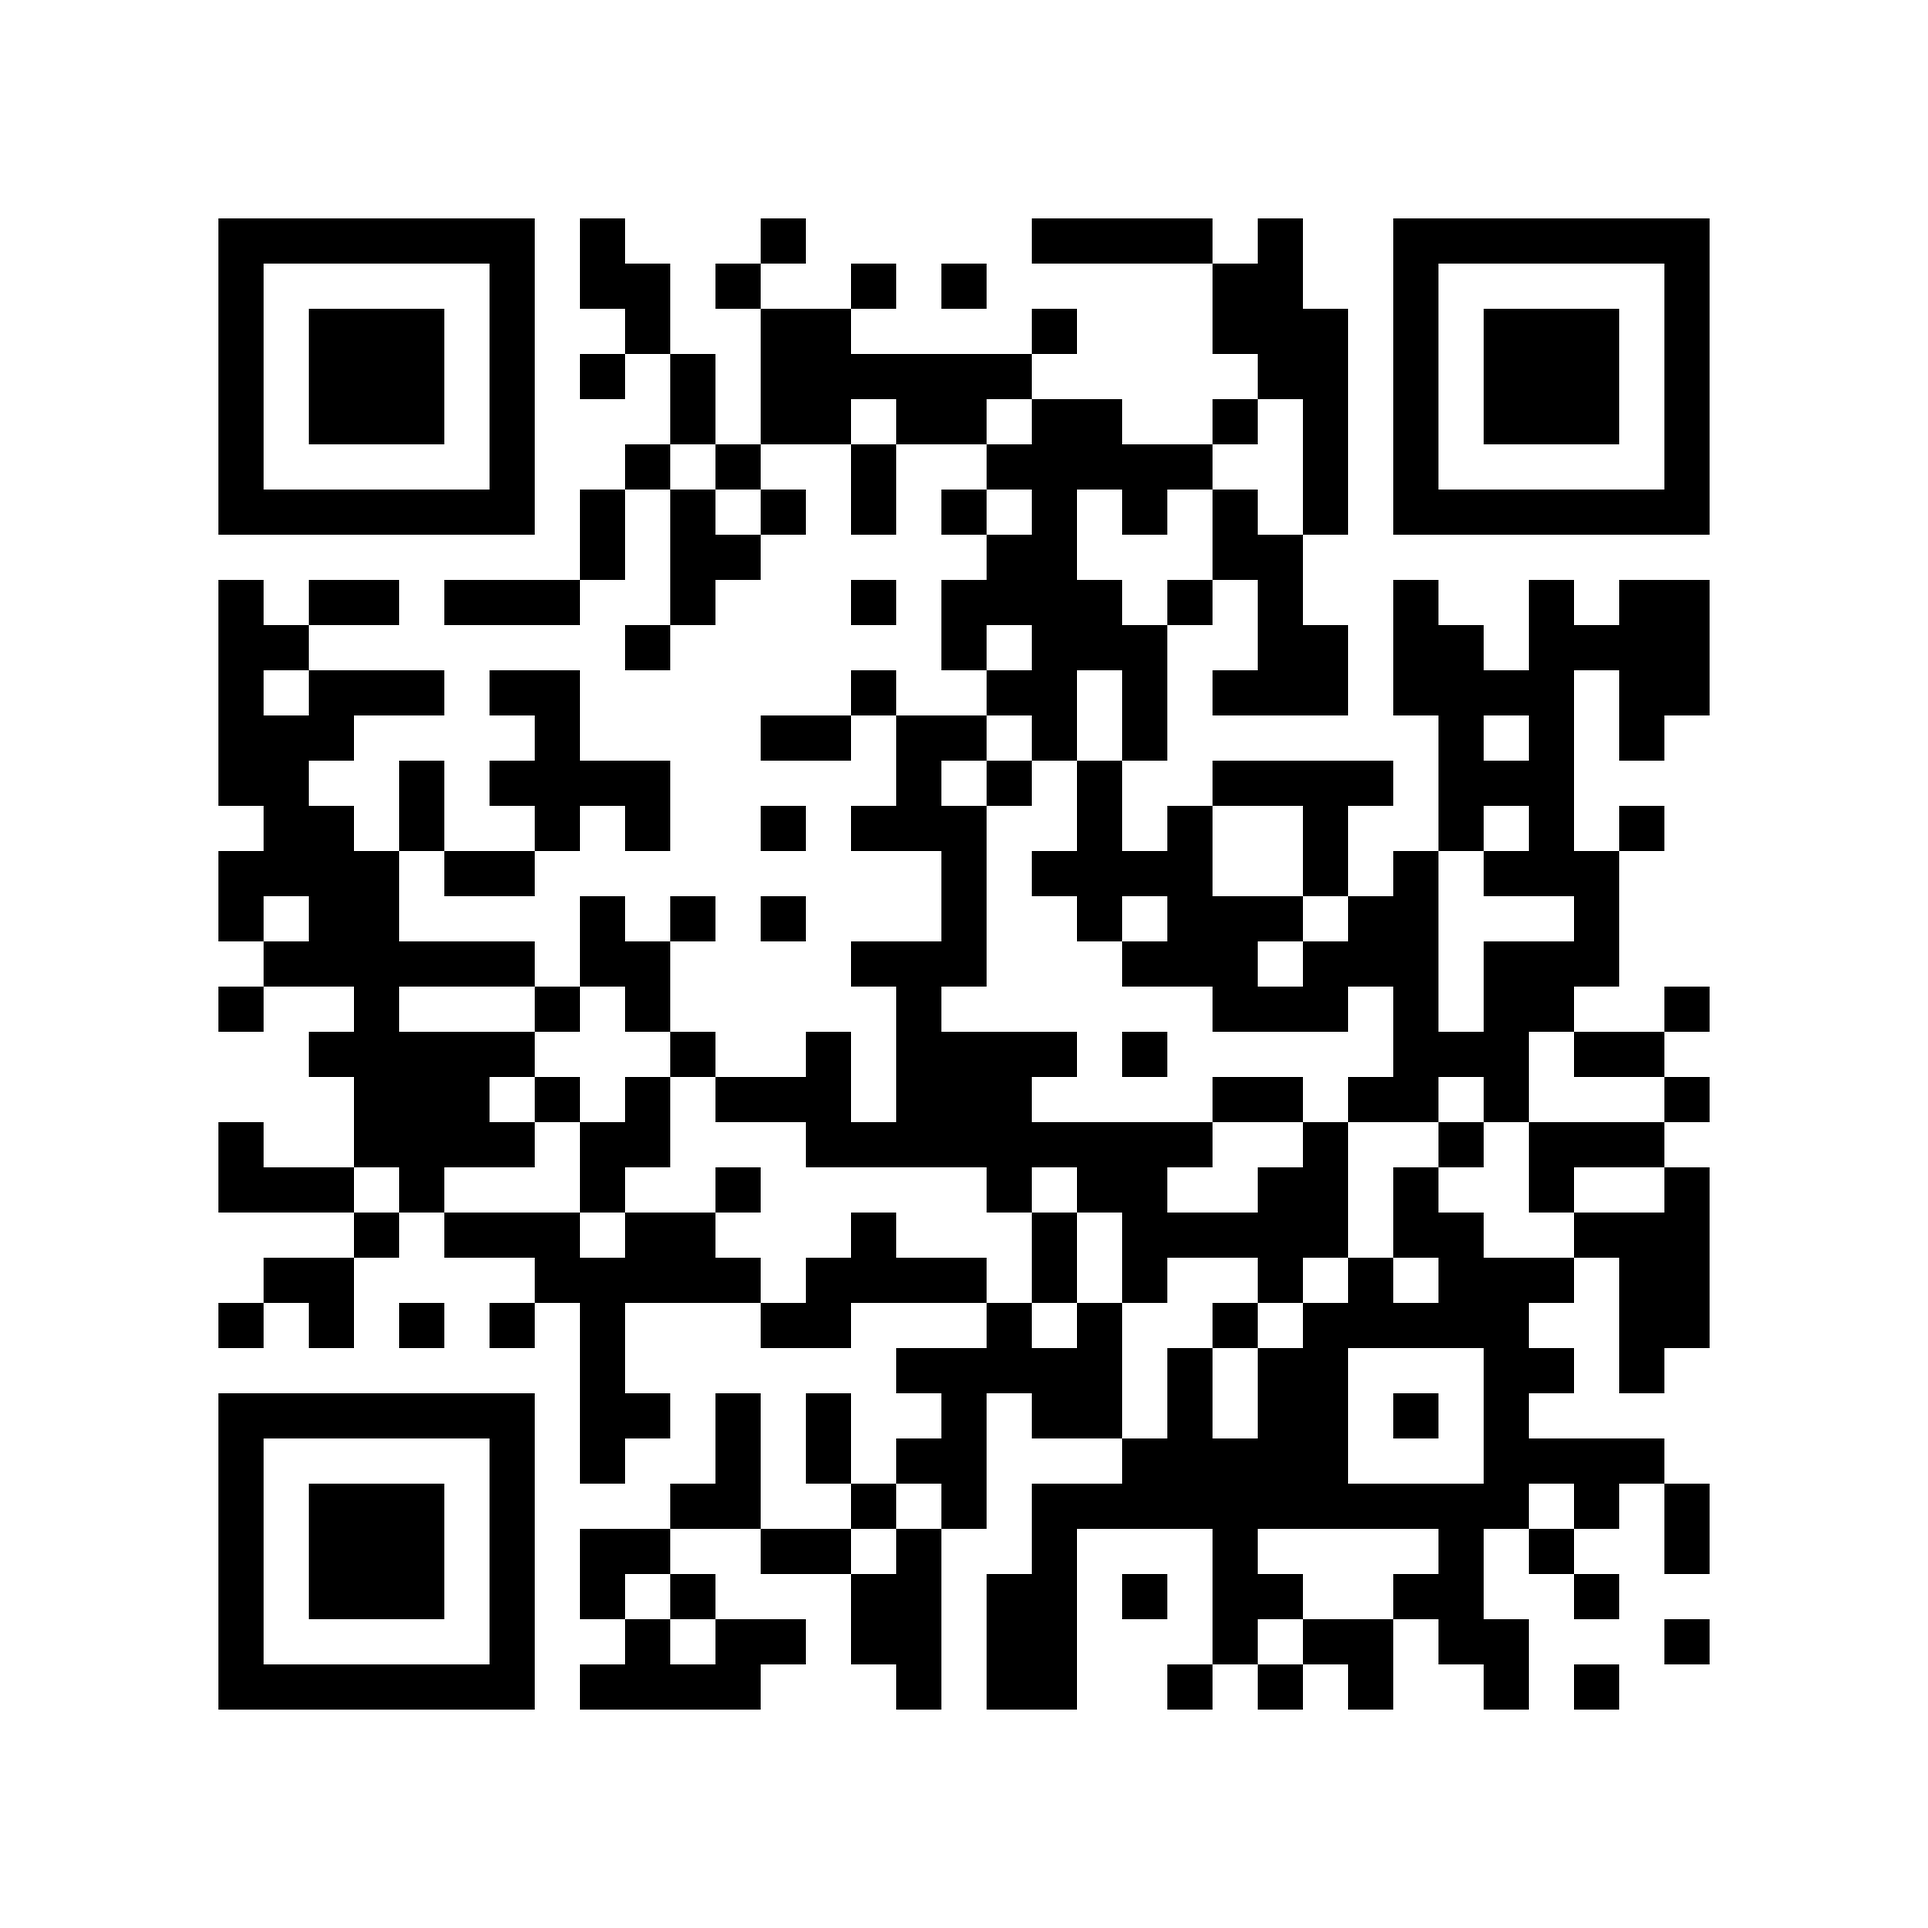
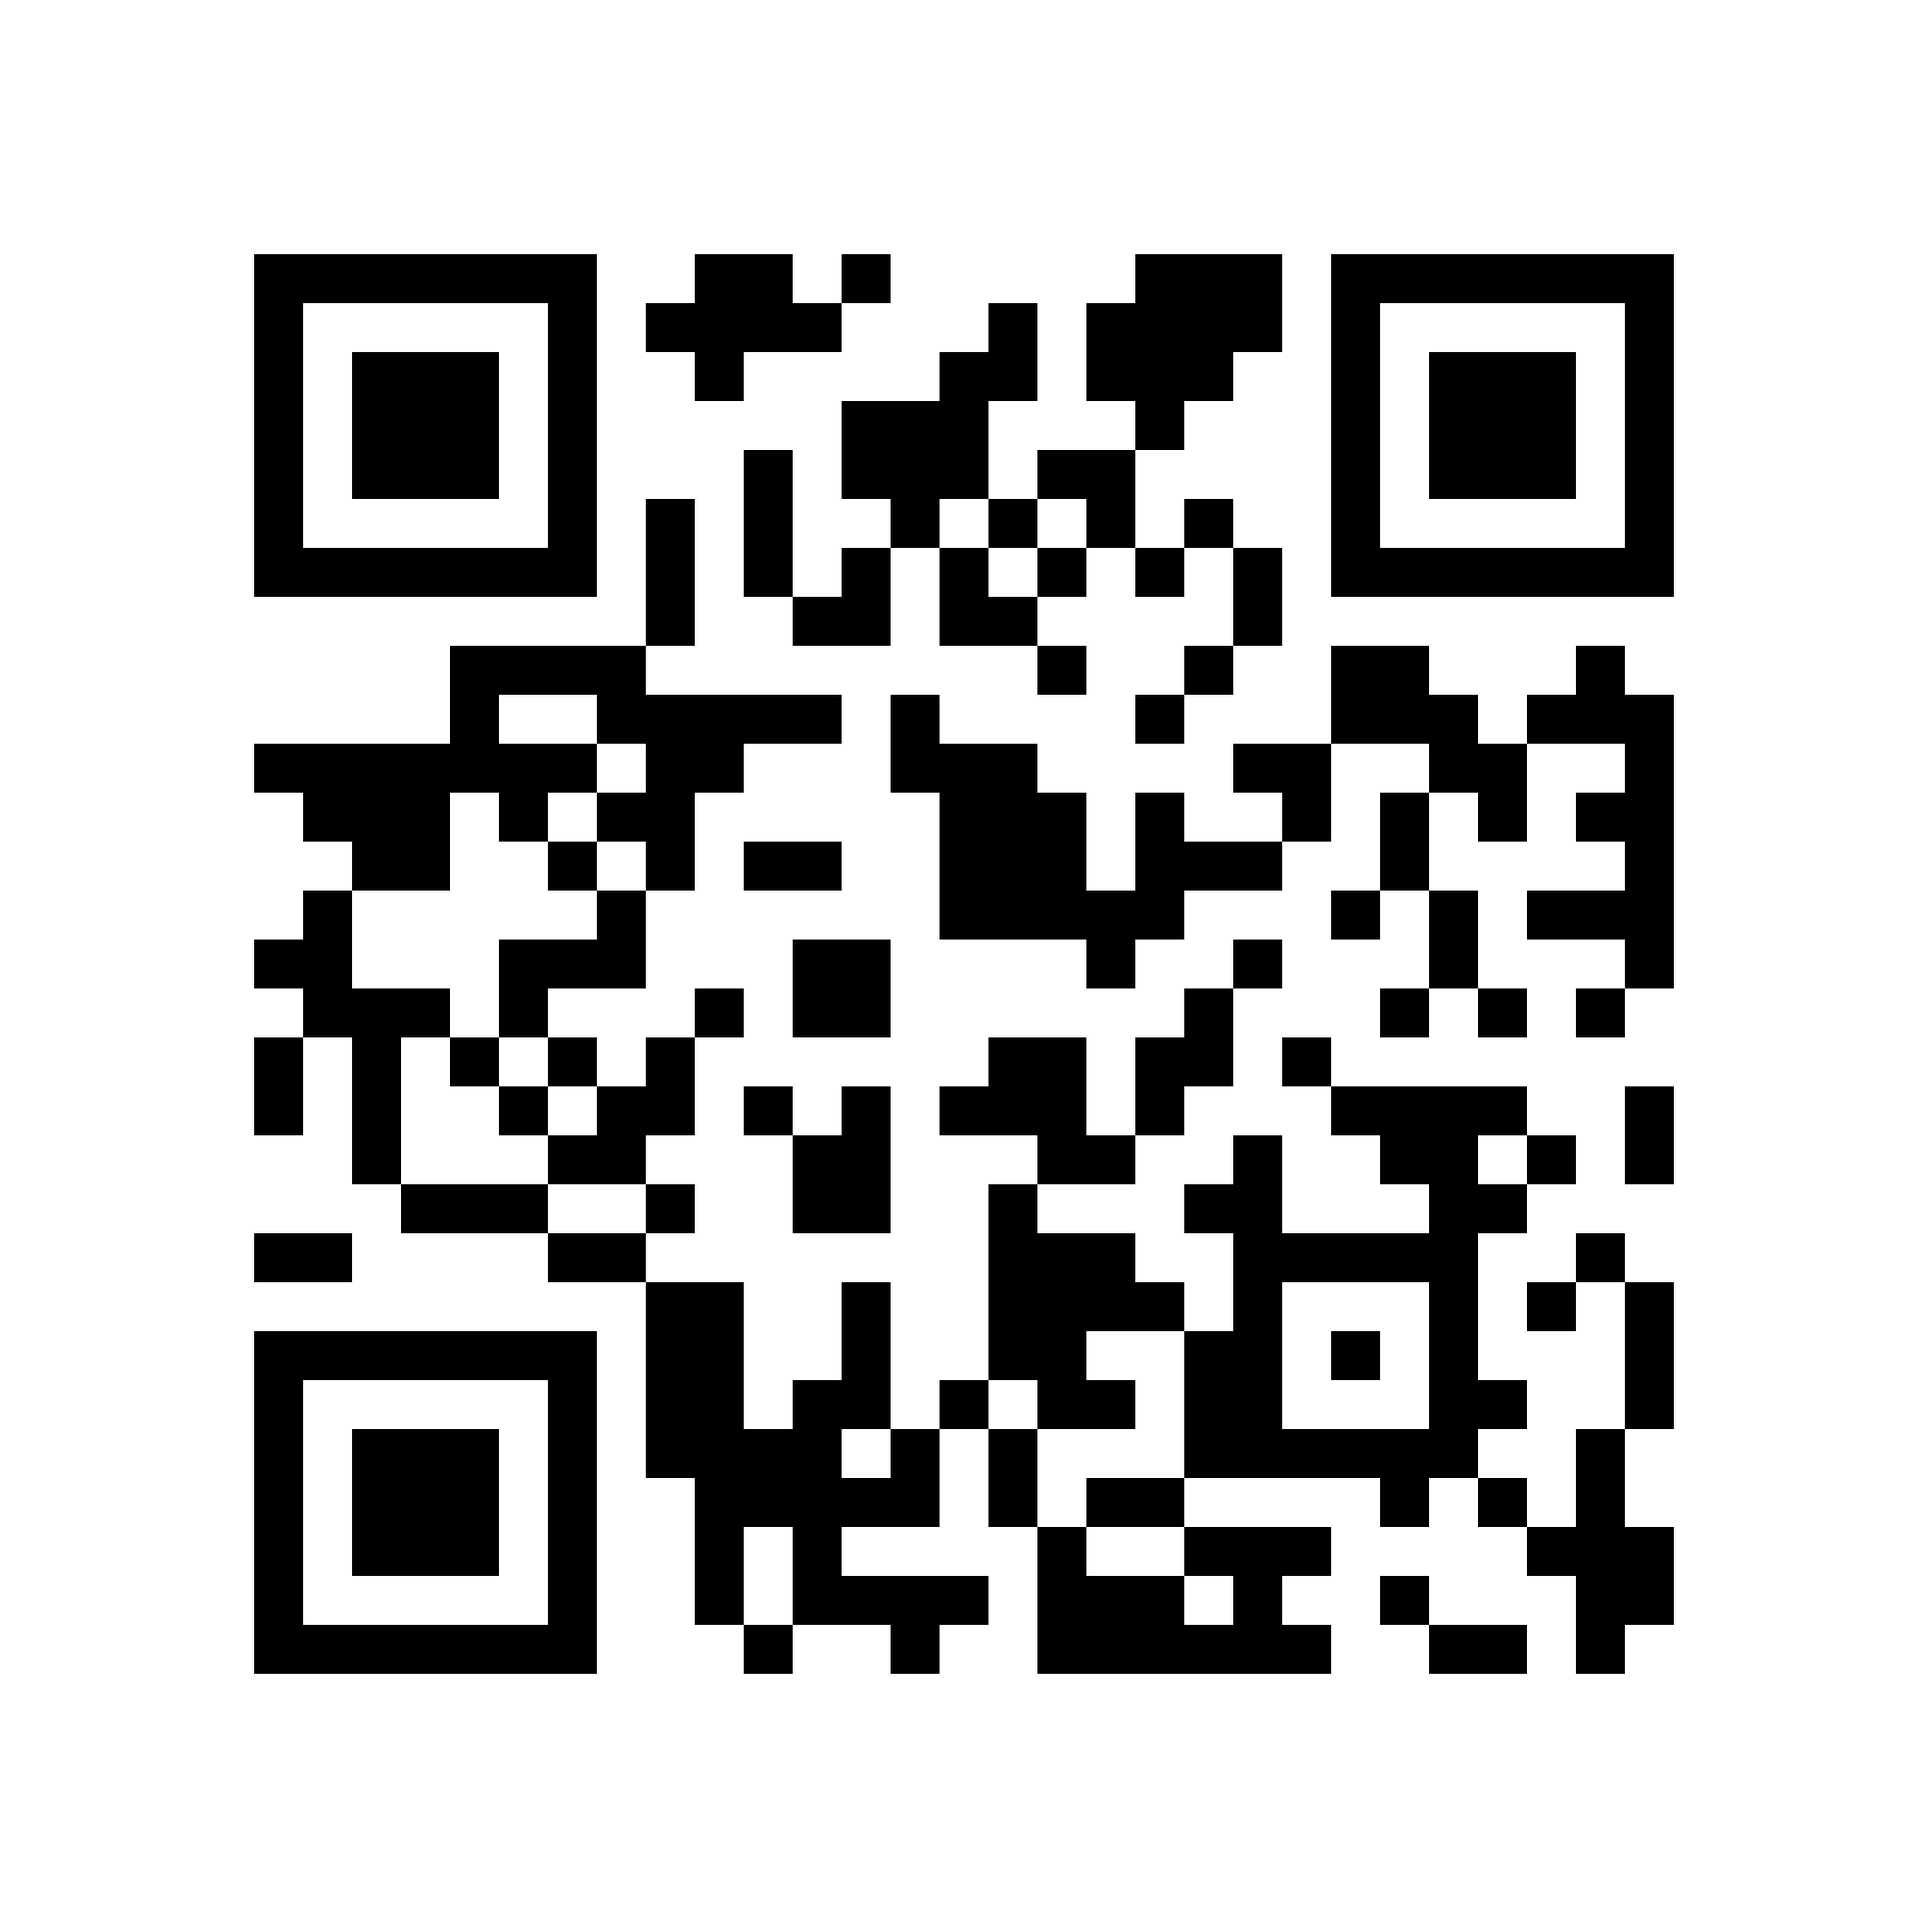
feat(qr): enable real-time QR scan tracking via secubuzz.com/qr to D1 with Google Play redirect

diff --git a/worker/src/index.ts b/worker/src/index.ts
@@ -452,9 +452,16 @@ export default {
     }
 
     try {
-      // Smart App Download Redirect & Click Tracking (/go/play, /app, /play)
-      if (url.pathname === '/go/play' || url.pathname === '/app' || url.pathname === '/play') {
-        const source = (url.searchParams.get('src') || url.searchParams.get('source') || 'direct').slice(0, 64);
+      // Smart App Download Redirect & Click Tracking (/go/play, /app, /play, /qr, /scan)
+      if (
+        url.pathname === '/go/play' ||
+        url.pathname === '/app' ||
+        url.pathname === '/play' ||
+        url.pathname === '/qr' ||
+        url.pathname === '/scan'
+      ) {
+        const defaultSource = (url.pathname === '/qr' || url.pathname === '/scan') ? 'qr_scan' : 'direct';
+        const source = (url.searchParams.get('src') || url.searchParams.get('source') || defaultSource).slice(0, 64);
         const country = request.headers.get('cf-ipcountry') || 'XX';
         const referer = (request.headers.get('Referer') || '').slice(0, 255);
         const userAgent = (request.headers.get('User-Agent') || '').slice(0, 255);
@@ -472,8 +479,12 @@ export default {
           }
         }
 
+        const playStoreTarget = source === 'direct'
+          ? 'https://play.google.com/store/apps/details?id=com.secubuzz.app'
+          : `https://play.google.com/store/apps/details?id=com.secubuzz.app&referrer=utm_source%3D${encodeURIComponent(source)}%26utm_medium%3Dwebsite`;
+
         const headers = new Headers({
-          'Location': 'https://play.google.com/store/apps/details?id=com.secubuzz.app',
+          'Location': playStoreTarget,
           'Cache-Control': 'no-cache, no-store, must-revalidate',
         });
         if (isNewCookie) {
@@ -485,6 +496,7 @@ export default {
           headers,
         });
       }
+
 
       // API: Telemetry for App Install Clicks & Repeat Readers (Private - Admin Only)
       if (url.pathname === '/api/analytics/install-clicks') {

diff --git a/scripts/generate_qr.py b/scripts/generate_qr.py
@@ -16,7 +16,7 @@ import numpy as np
 from PIL import Image
 import cv2
 
-TARGET_URL = "https://play.google.com/store/apps/details?id=com.secubuzz.app"
+TARGET_URL = "https://secubuzz.com/qr"
 DESTINATIONS = [
     os.path.abspath(os.path.join(os.path.dirname(__file__), "..", "assets", "qr.png")),
     os.path.abspath(os.path.join(os.path.dirname(__file__), "..", "website", "public", "qr.png")),
@@ -28,7 +28,7 @@ def generate_qr():
 
     qr = qrcode.QRCode(
         version=None,
-        error_correction=qrcode.constants.ERROR_CORRECT_M,
+        error_correction=qrcode.constants.ERROR_CORRECT_H,
         box_size=1,
         border=0,
     )
@@ -38,10 +38,11 @@ def generate_qr():
     n_modules = len(matrix)
     print(f"[QR Gen] QR Matrix dimensions: {n_modules}x{n_modules} modules")
 
-    module_px = 48
+    module_px = 52
     qr_px = n_modules * module_px
     total_size = 2048
     pad = (total_size - qr_px) // 2
+
 
     # High-res 2048x2048 image with clean white background
     img = Image.new("RGB", (total_size, total_size), (255, 255, 255))
